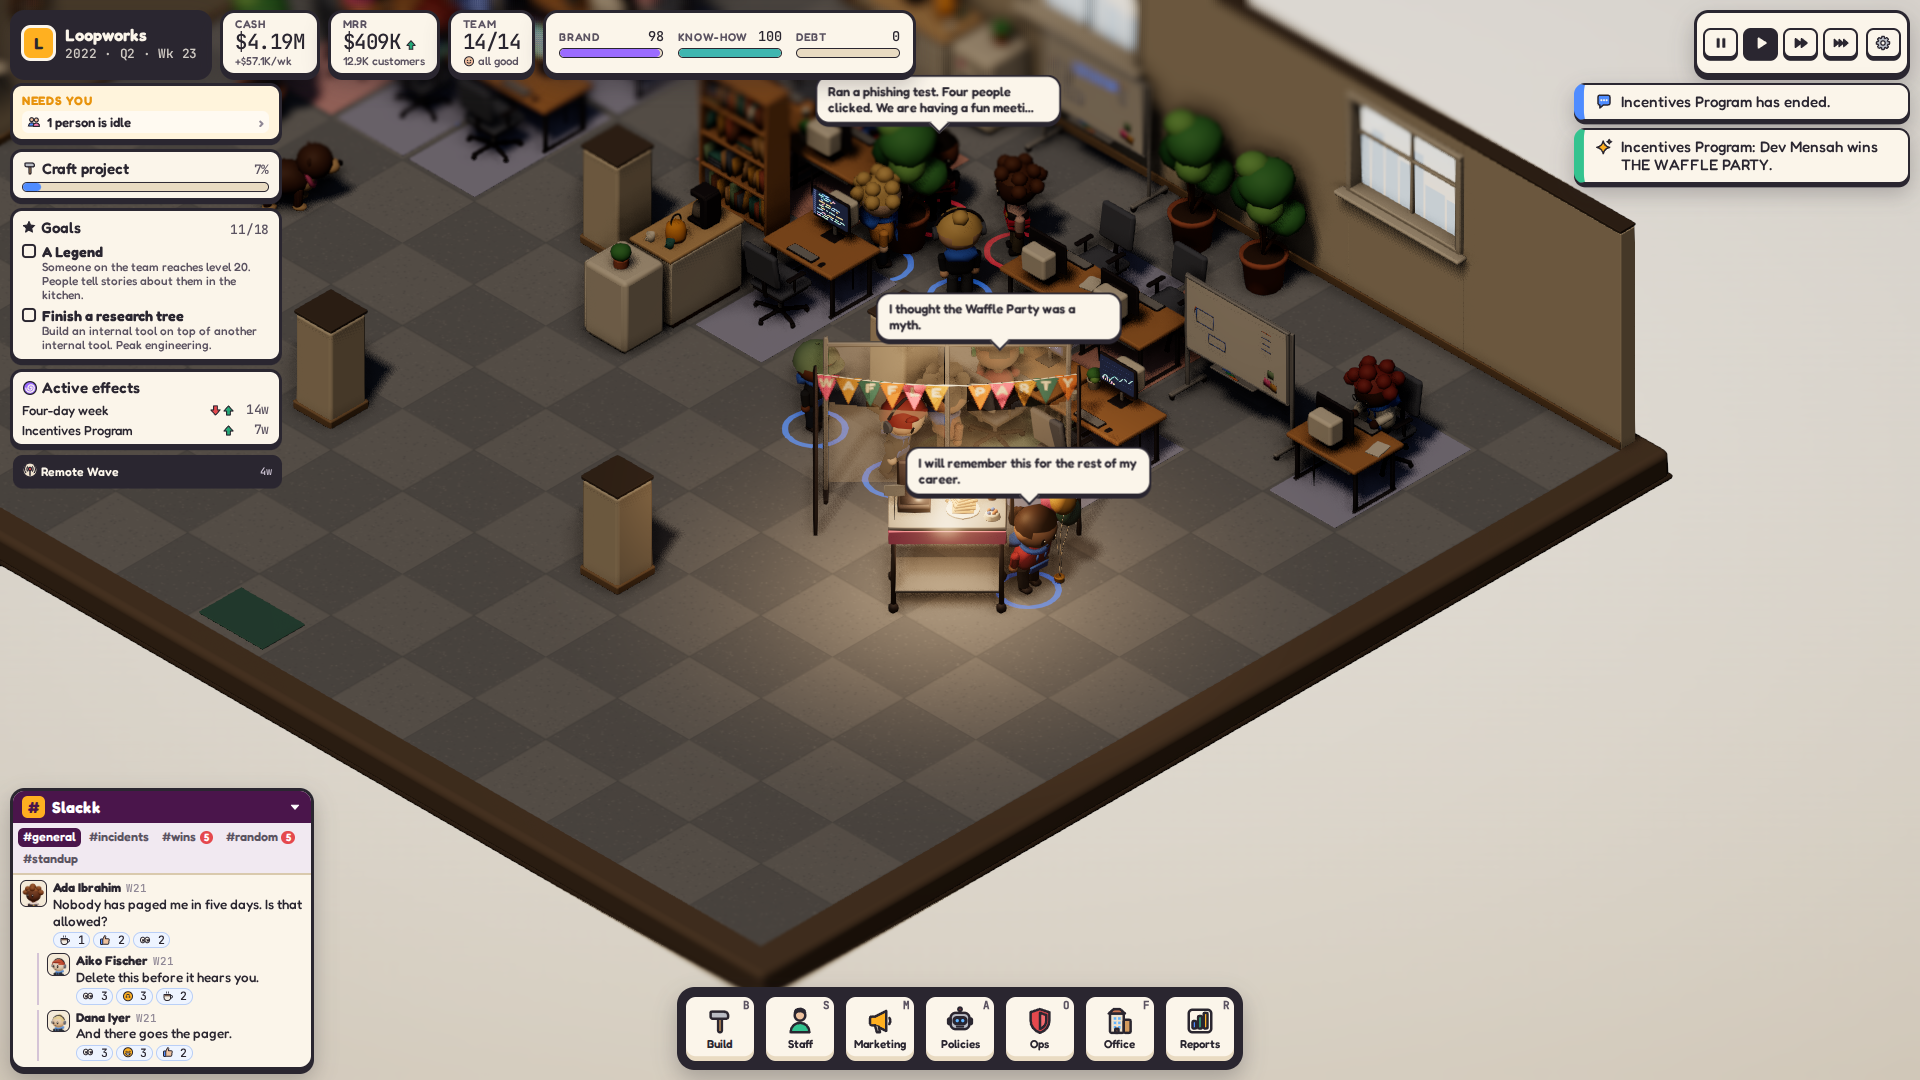
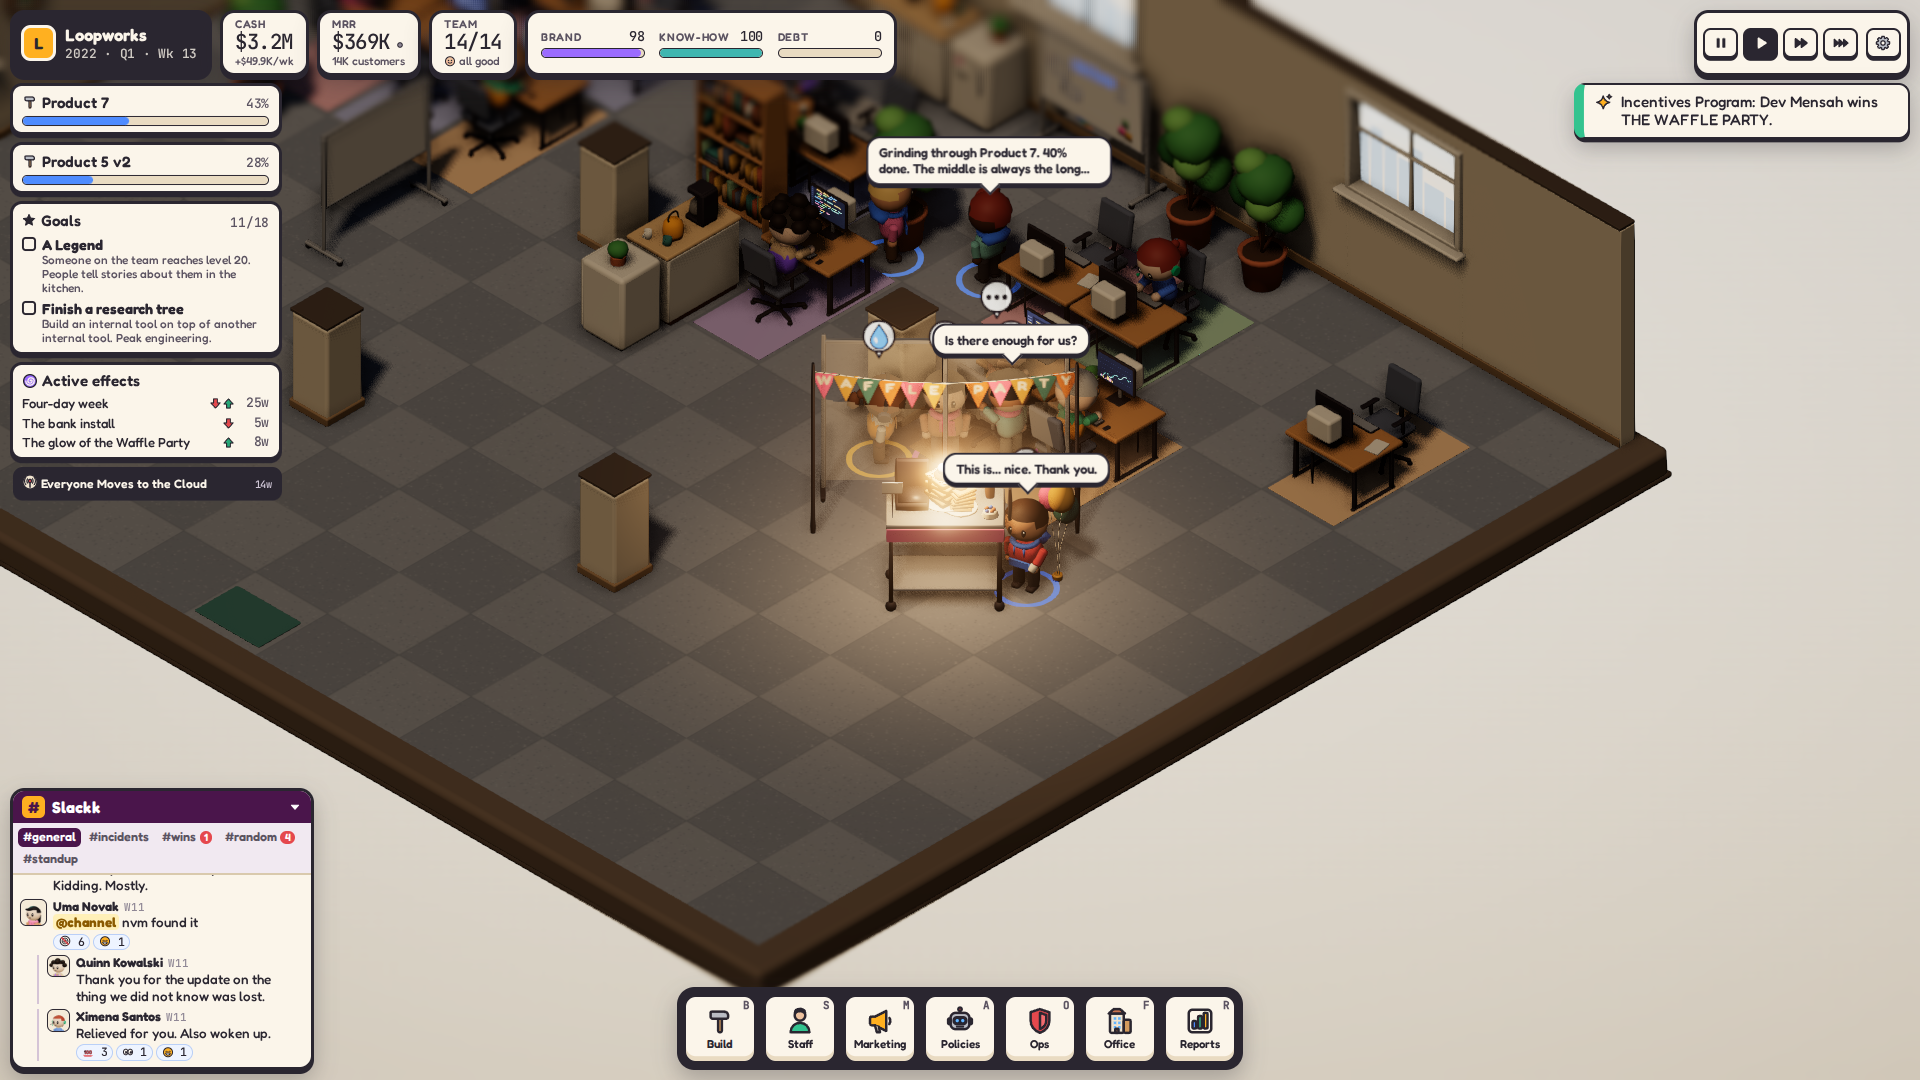
docs(readme): retake the Waffle Party still without the stale toast
With the program's expiry toast gone and Needs You clean, the party starts
a few seconds later on current feat/one-shot, so the still moves to 23 s.

diff --git a/scripts/capture-manifest.js b/scripts/capture-manifest.js
@@ -270,7 +270,7 @@ export const ITEMS = [
     id: '5-4-waffle-party-real', title: '5.4 Waffle Party in a real game', query: 'seed=1&speed=1', seconds: 30,
     setup: WAFFLE_SETUP,
     actions: WAFFLE_ACTIONS(30),
-    screenshots: [16, 19.5, 24],
+    screenshots: [20, 23, 27],
   },
   {
     id: '5-5-burnout-resign', title: '5.5 Burnout and a resignation', query: 'mock=floor&speed=1', seconds: 16,
@@ -346,7 +346,7 @@ export const ITEMS = [
   },
   {
     id: 'readme-waffle', group: 'readme', title: 'The Waffle Party in a real game', query: 'seed=1&speed=1', still: true,
-    setup: WAFFLE_SETUP, actions: WAFFLE_ACTIONS(20), screenshots: [19.5],
+    setup: WAFFLE_SETUP, actions: WAFFLE_ACTIONS(24), screenshots: [23],
   },
   {
     id: 'readme-loop', group: 'readme', title: 'The office in motion (loop)', query: 'seed=1&speed=1&time=day', seconds: 7, warmup: 6, hideUi: true,
